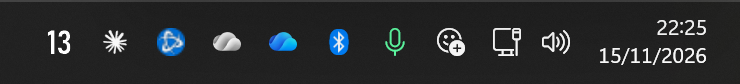
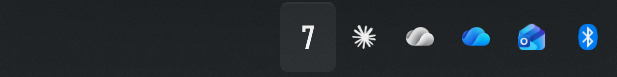
docs: README screenshots of the panel, the number and the settings

Changed region(s): [[0.4311, 0.2338, 0.9854, 0.7792], [0.0616, 0.3117, 0.4003, 0.6753], [0.0, 0.0, 1.0, 0.0519]]

diff --git a/README.md b/README.md
@@ -7,13 +7,13 @@ speaker's Bluetooth LE control interface (the one the EDIFIER ConneX phone app u
 doesn't depend on the Windows volume slider. Control runs over its own Bluetooth LE link,
 separate from the audio input (tested with the speakers fed by a USB audio interface).
 
-The speaker volume in the notification area (the **13** on the left):
+The speaker volume in the notification area (the **7** on the left):
 
 ![Taskbar with the speaker volume shown as a number in the notification area](docs/images/tray.png)
 
 Click it for the panel:
 
-![Panel with the model name, a volume slider and the current level](docs/images/flyout.png)
+![Panel above the number: model name, power and settings buttons, sound mode, mute, volume slider and level](docs/images/flyout.png)
 
 ## Supported speakers
 
